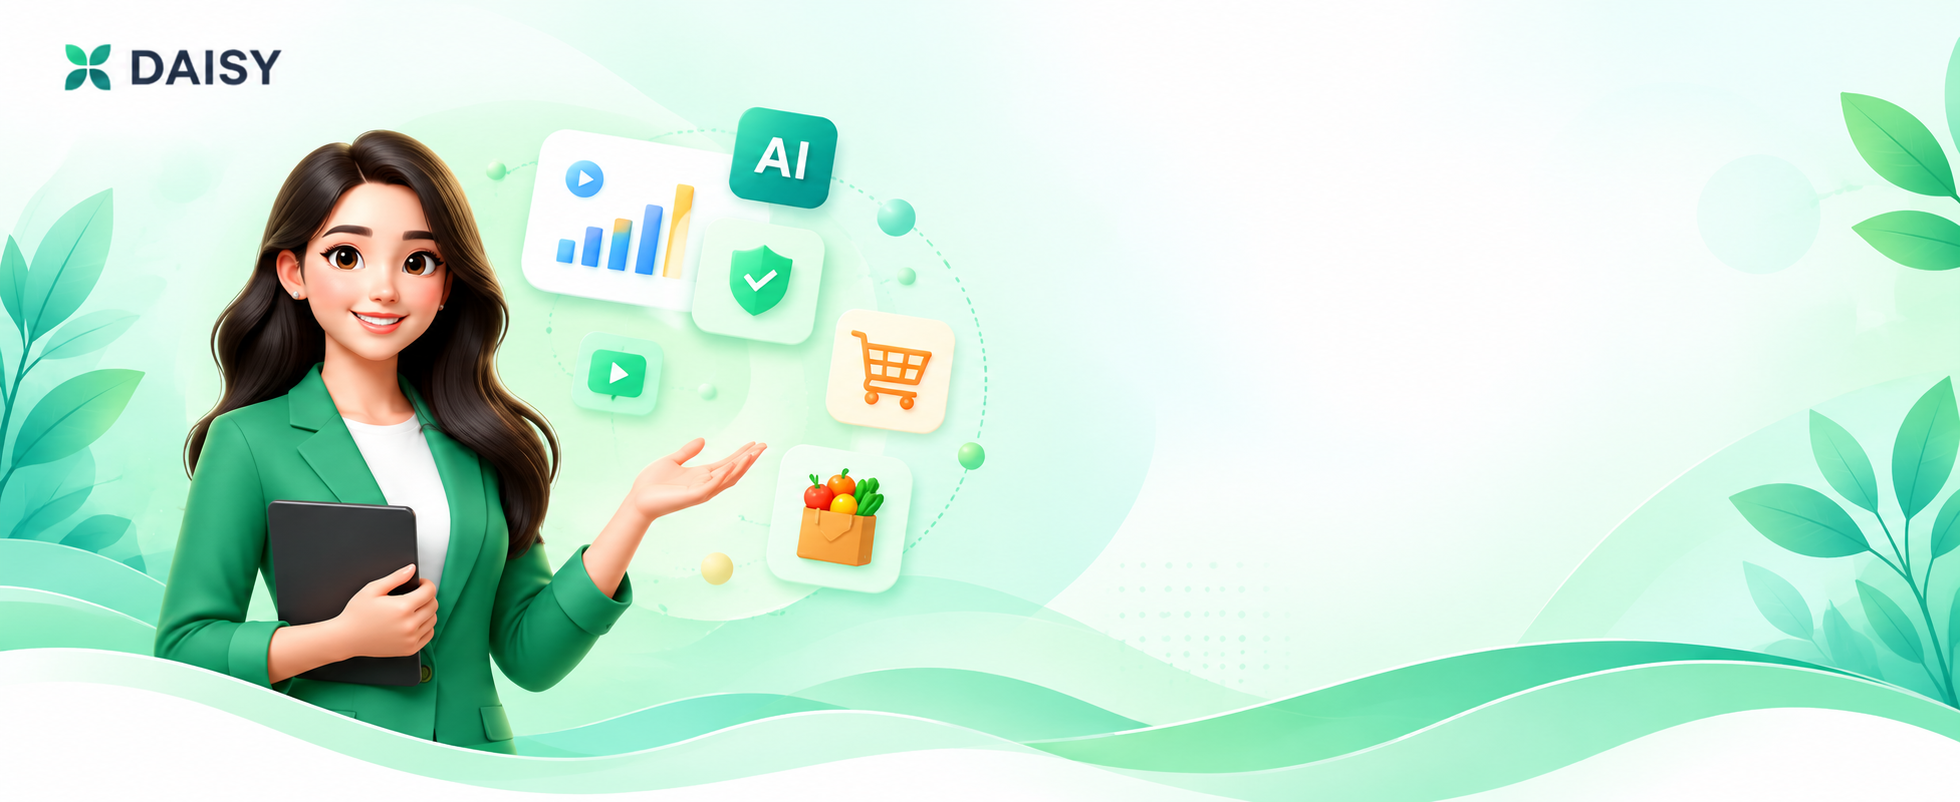
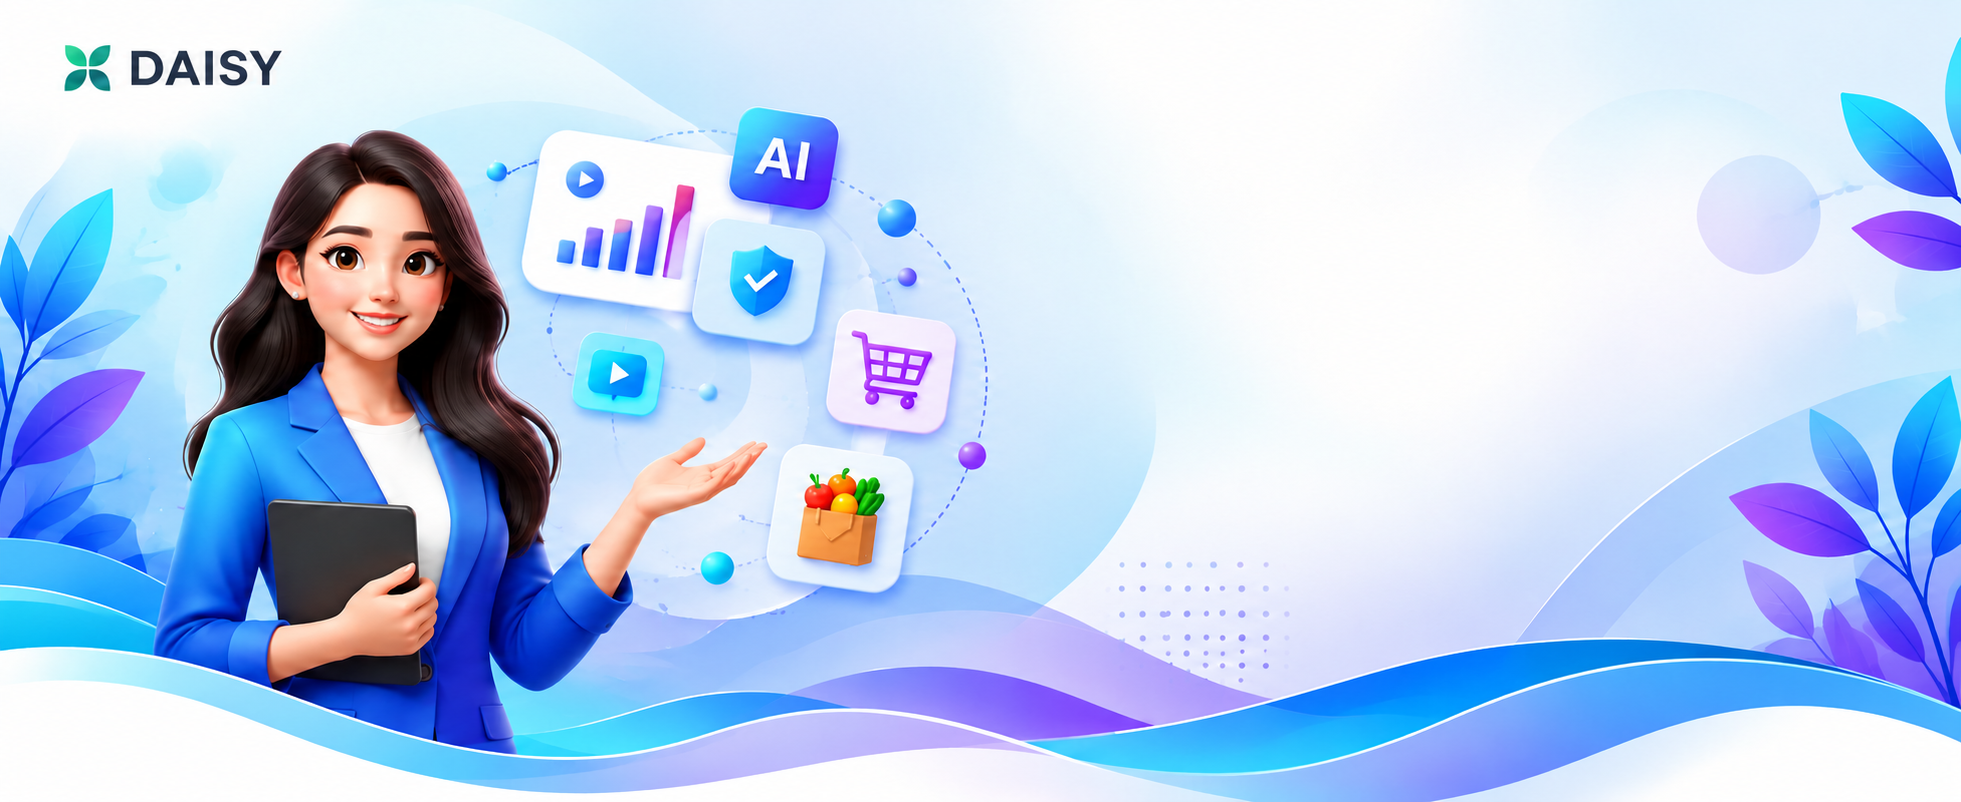
Update styles and add new images for event badge and background

diff --git a/src/App.tsx b/src/App.tsx
@@ -110,6 +110,9 @@ function toggle<T>(list: T[], value: T, checked: boolean) {
 
 const inputClass = "h-11 rounded-lg bg-background px-3.5 text-[15px]"
 
+const eventBadgeClass =
+  "w-fit rounded-full bg-linear-to-r from-cyan-50 to-violet-50 px-3.5 py-1 font-semibold text-blue-700 ring-1 ring-blue-200 dark:from-blue-950/60 dark:to-violet-950/60 dark:text-blue-300 dark:ring-blue-800"
+
 // Bordered, selectable option tiles from tablet up; plain checkbox rows on phones.
 const optionCardClass =
   "sm:gap-3 sm:rounded-lg sm:border sm:border-input sm:bg-background sm:pl-4 sm:shadow-xs sm:transition-colors sm:hover:border-emerald-300 sm:has-data-checked:border-emerald-500 sm:has-data-checked:bg-emerald-50/70 sm:has-data-checked:ring-1 sm:has-data-checked:ring-emerald-500/30 dark:sm:has-data-checked:bg-emerald-900/20"
@@ -177,7 +180,7 @@ export function App() {
   }
 
   return (
-    <div className="relative min-h-svh overflow-hidden bg-linear-to-br from-sky-50 via-white to-emerald-50/60 dark:from-background dark:via-background dark:to-background">
+    <div className="relative min-h-svh overflow-hidden bg-linear-to-br from-cyan-50/70 via-white to-violet-50/70 dark:from-background dark:via-background dark:to-background">
       {/* Background decoration */}
       <div
         aria-hidden
@@ -185,7 +188,7 @@ export function App() {
       />
       <div
         aria-hidden
-        className="pointer-events-none absolute top-1/2 -left-40 size-[26rem] rounded-full bg-emerald-100/70 blur-3xl lg:hidden dark:bg-emerald-900/20"
+        className="pointer-events-none absolute top-1/2 -left-40 size-[26rem] rounded-full bg-violet-100/50 blur-3xl lg:hidden dark:bg-violet-900/20"
       />
       {/* Desktop: illustration sits low under the intro column, fading in from the top; its logo strip is cropped off */}
       <div
@@ -196,7 +199,8 @@ export function App() {
           <img
             src="/daisyimage.png"
             alt=""
-            className="h-full w-auto max-w-none mask-r-from-90%"
+            // Full strength under the person and icons, then the waves on the right recede to a soft wash
+            className="h-full w-auto max-w-none [mask-image:linear-gradient(to_right,black_45%,rgb(0_0_0/0.3)_62%,rgb(0_0_0/0.18)_90%,transparent)]"
           />
         </div>
       </div>
@@ -204,10 +208,19 @@ export function App() {
       <div className="relative mx-auto grid w-full max-w-2xl gap-8 px-5 py-8 sm:px-8 sm:py-12 lg:max-w-6xl lg:grid-cols-[minmax(0,1fr)_minmax(0,1.2fr)] lg:gap-14 lg:px-8 lg:py-12">
         {/* Intro */}
         <aside className="flex flex-col gap-6 lg:sticky lg:top-12 lg:self-start">
-          <DaisyLogo />
+          {/* Phones: logo and event badge share a header row; tablet up keeps the badge above the heading */}
+          <div className="flex items-center justify-between gap-4 border-b border-blue-900/10 pb-5 sm:border-0 sm:pb-0 dark:border-border">
+            <DaisyLogo />
+            <span
+              className={`${eventBadgeClass} inline-flex items-center gap-1.5 text-xs sm:hidden`}
+            >
+              <span className="size-1.5 rounded-full bg-blue-600 dark:bg-blue-300" />
+              GIC Event
+            </span>
+          </div>
 
           <div className="flex flex-col gap-4 lg:mt-10">
-            <span className="w-fit rounded-full bg-emerald-100/80 px-3.5 py-1 text-sm font-semibold text-emerald-700 ring-1 ring-emerald-200 dark:bg-emerald-900/40 dark:text-emerald-300 dark:ring-emerald-800">
+            <span className={`${eventBadgeClass} hidden text-sm sm:inline`}>
               GIC Event
             </span>
             <h1 className="text-4xl leading-[1.05] font-extrabold tracking-tight sm:text-5xl lg:text-6xl">
@@ -222,7 +235,7 @@ export function App() {
           <ul className="hidden gap-4 sm:grid sm:grid-cols-2 lg:grid-cols-1 lg:gap-5">
             {HIGHLIGHTS.map(({ icon: Icon, title, text }) => (
               <li key={title} className="flex items-center gap-4">
-                <span className="flex size-12 shrink-0 items-center justify-center rounded-full bg-emerald-100/80 text-emerald-700 dark:bg-emerald-900/40 dark:text-emerald-300">
+                <span className="flex size-12 shrink-0 items-center justify-center rounded-full bg-linear-to-br from-cyan-50 to-violet-100 text-blue-600 ring-1 ring-blue-100 dark:from-blue-950/60 dark:to-violet-950/60 dark:text-blue-300 dark:ring-blue-900">
                   <Icon className="size-5" />
                 </span>
                 <div>
@@ -235,7 +248,7 @@ export function App() {
         </aside>
 
         {/* Card only on desktop; phones and tablets show the form directly on the background */}
-        <main className="border-t border-emerald-900/10 pt-8 lg:rounded-2xl lg:border lg:border-white/80 lg:bg-card/95 lg:p-8 lg:shadow-xl lg:shadow-sky-900/5 lg:backdrop-blur dark:border-border">
+        <main className="border-t border-blue-900/10 pt-8 lg:rounded-2xl lg:border lg:border-white/80 lg:bg-card/95 lg:p-8 lg:shadow-xl lg:shadow-sky-900/5 lg:backdrop-blur dark:border-border">
           {submitted ? (
             <div className="flex flex-col items-center gap-5 py-12 text-center">
               <span className="flex size-16 items-center justify-center rounded-full bg-emerald-100 text-emerald-600 dark:bg-emerald-900/40 dark:text-emerald-300">
@@ -482,7 +495,7 @@ export function App() {
                   type="submit"
                   size="lg"
                   disabled={submitting}
-                  className="group h-12 w-full rounded-xl bg-linear-to-r from-emerald-500 to-emerald-700 text-base font-semibold text-white shadow-lg shadow-emerald-700/20 hover:from-emerald-600 hover:to-emerald-800"
+                  className="group h-12 w-full rounded-xl bg-linear-to-r from-cyan-500 via-blue-600 to-violet-600 text-base font-semibold text-white shadow-lg shadow-blue-600/25 hover:from-cyan-600 hover:via-blue-700 hover:to-violet-700"
                 >
                   {submitting ? (
                     <>
